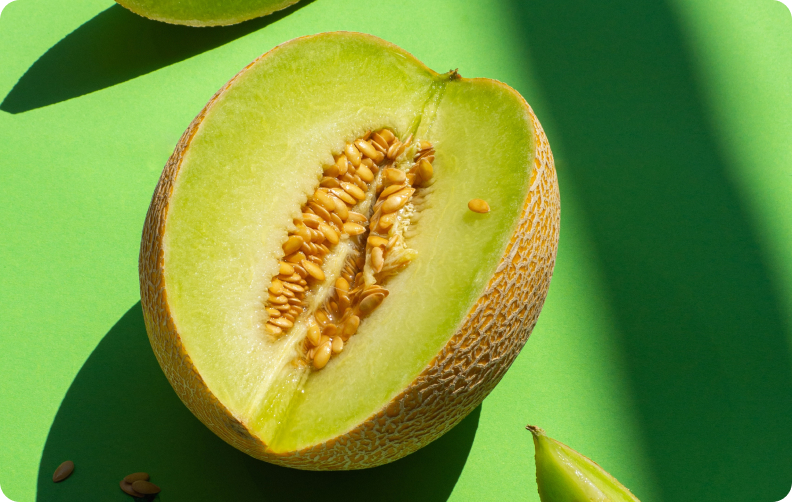
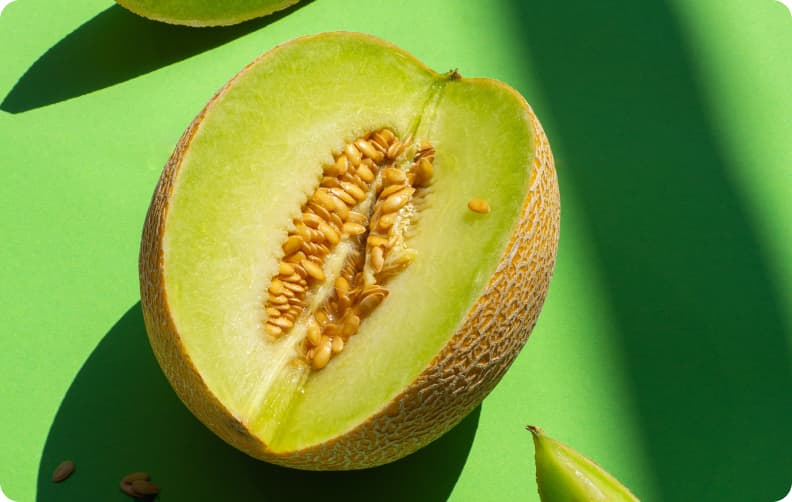
оптимизировал картинки

diff --git a/src/partials/contacts.html b/src/partials/contacts.html
@@ -14,7 +14,7 @@
                         ../img/contacts/contacts1_1584.jpg 1584w
                         "
                 sizes="(min-width: 1280px) 792px, (min-width: 768px) 344px,(min-width: 375px) 335px, 100vw"
-                src="../img/contacts/contacts1_335.jpg" 
+                src="../img/contacts/imgc1.jpg" 
                 alt="melon"
                 width="792"
                 height="502"

diff --git a/src/css/contacts.css b/src/css/contacts.css
@@ -1,5 +1,4 @@
 :root{
-    /* colors */
     --color-text: #FFFFFF;
     --second-text-color: #000000;
     --brand-color: #AE1332;
